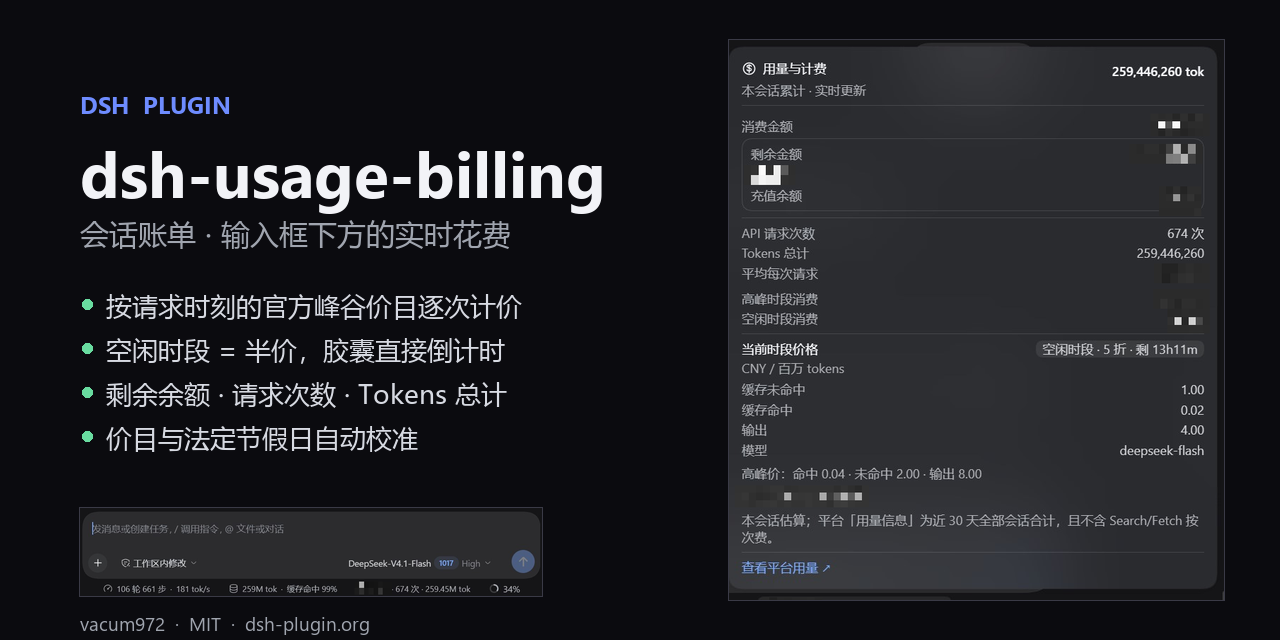
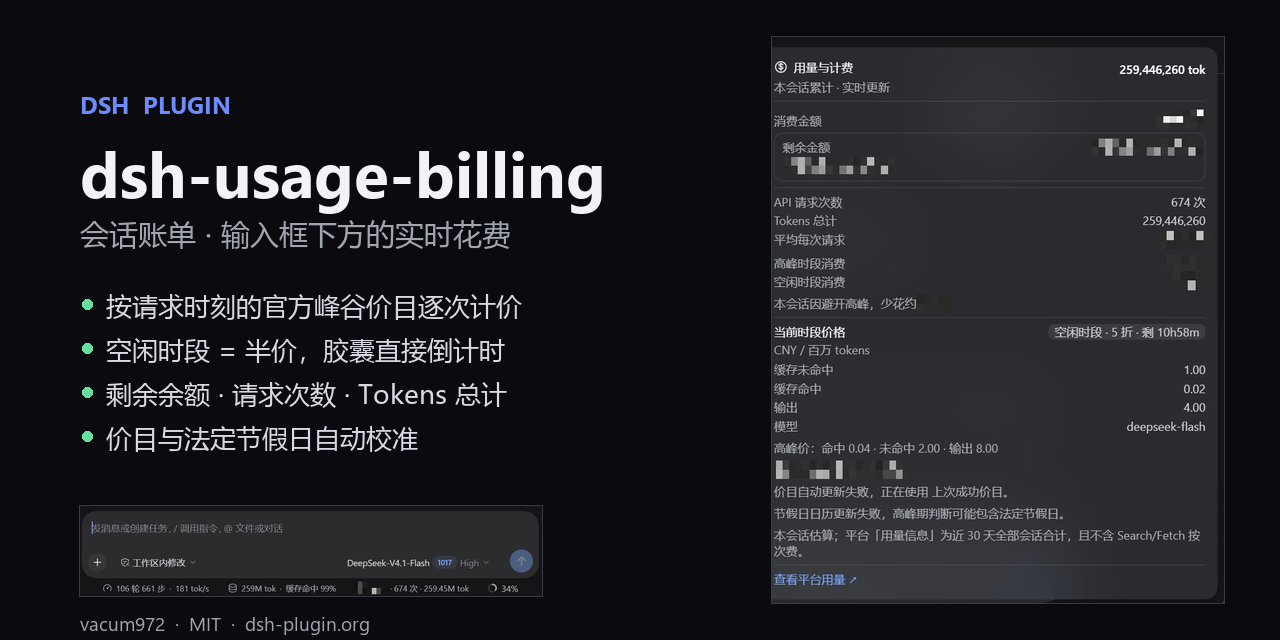
docs: refresh screenshots, demo and social card from the restarted build
- assets: dialog now shows the peak-hour savings row and the idle countdown
- assets: demo GIF masks the chat transcript as well and keeps only the dialog segment
- assets: social preview rebuilt from the same masked shots
- chore: 0.2.2

diff --git a/README.md b/README.md
@@ -46,12 +46,13 @@ dsh plugin --profile web add @vacum972/dsh-usage-billing
 
 ## 界面预览
 
-点开后的详情弹窗：消费金额、剩余金额、请求次数、Tokens 总计、平均成本、高峰/空闲时段消费拆分，
-以及当前时段生效的官方价目与空闲倒计时：
+点开后的详情弹窗：消费金额、剩余金额、请求次数、Tokens 总计、平均成本、高峰/空闲时段消费拆分、
+本会话因避开高峰的节省额，以及当前时段生效的官方价目与空闲倒计时：
 
 ![用量与计费详情弹窗](https://raw.githubusercontent.com/vacum972/dsh-usage-billing/main/assets/screenshots/02-dialog.png)
 
-> 截图为隐私脱敏示意：**金额、余额与时间戳已打码（马赛克）**，请求次数、Tokens 与官方价目为真实数据。
+> 截图为隐私脱敏示意：**金额、余额与时间戳已打码（马赛克）**；录屏 GIF 里的**聊天记录也一并打码**。
+> 请求次数、Tokens 与官方价目为真实数据。
 
 ## 时段与价目（确保准确）
 

diff --git a/CHANGELOG.md b/CHANGELOG.md
@@ -1,5 +1,13 @@
 # 变更日志
 
+## [0.2.2] - 2026-11-15
+
+### 变更
+
+- 三张界面素材换成重启后的界面：弹窗里能看到「本会话因避开高峰，少花约 ¥X」与空闲倒计时。
+- 录屏 GIF 里**聊天记录整块打码**（金额、余额、时间戳之外再加一层），只保留插件界面本身；时长裁到 3.5 秒的弹窗展示段。
+- 社交预览卡按新素材重做。
+
 ## [0.2.1] - 2026-11-15
 
 ### 变更
